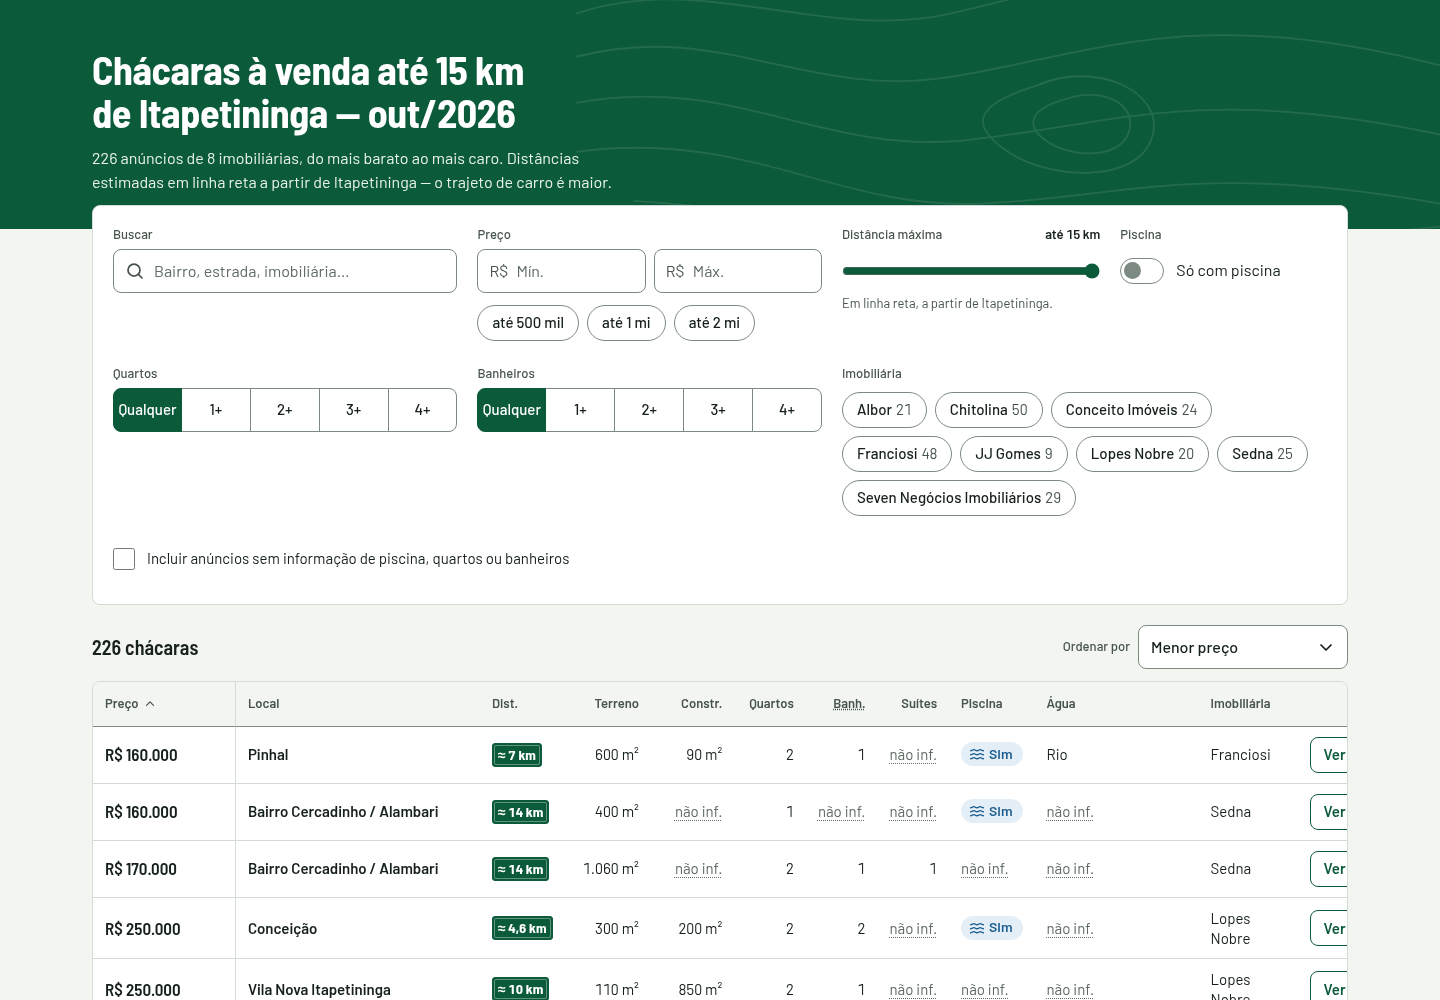
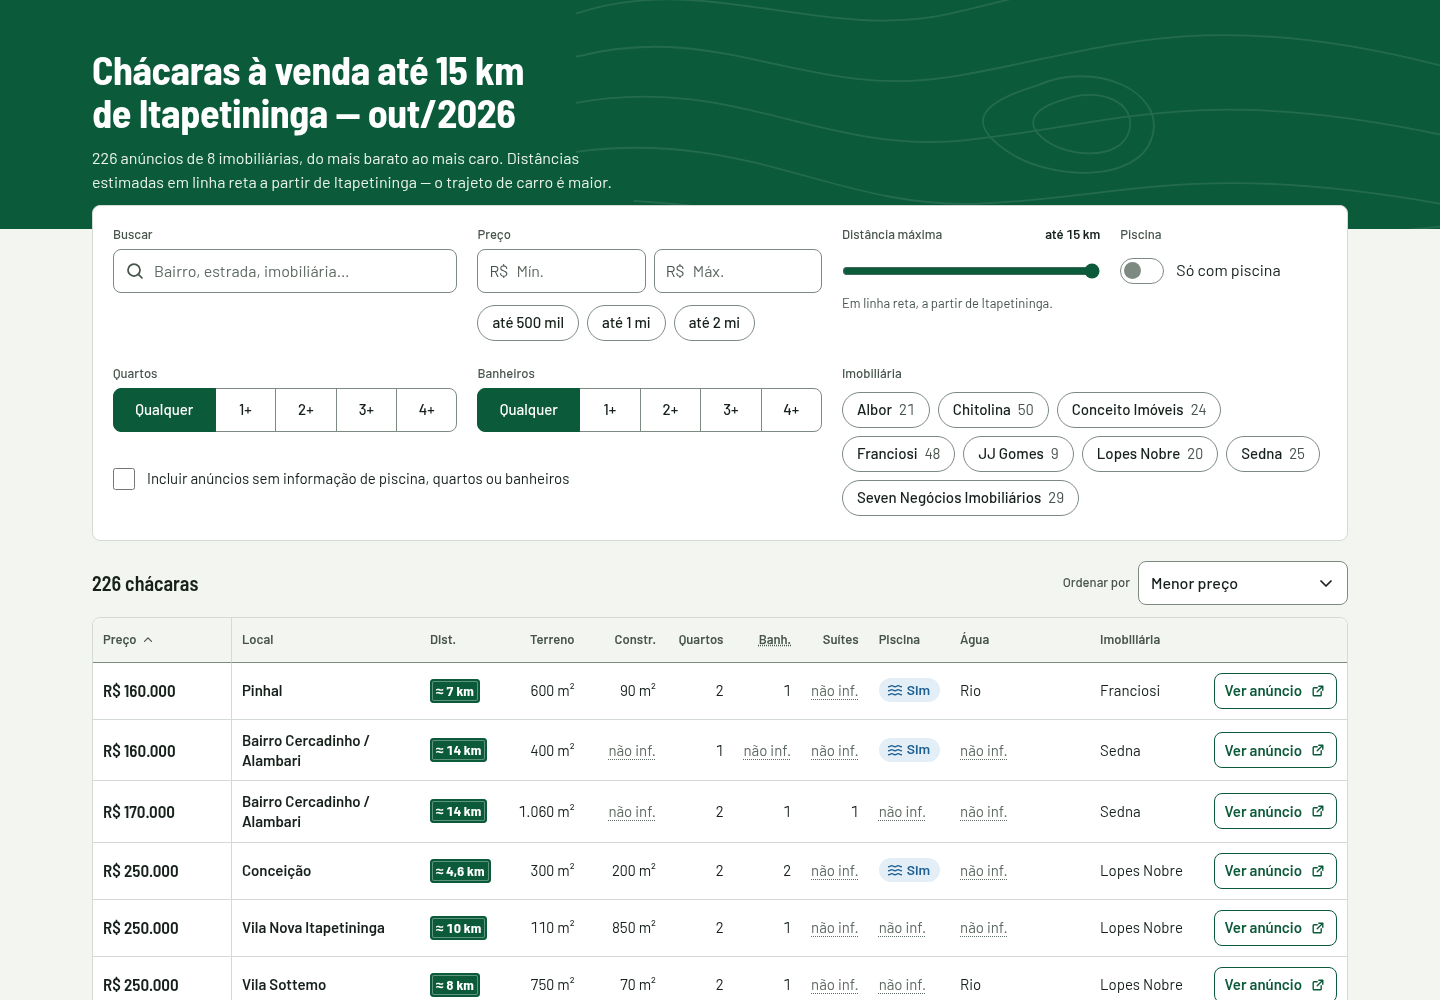
QA: post-deploy screenshots and report note

diff --git a/QA_REPORT.md b/QA_REPORT.md
@@ -38,3 +38,11 @@ Final review of `index.html`, `styles.css`, `app.js` and `data.json`, checked ag
   - 7 terreno values under 20 m² (sedna-10423 = 3 m², franciosi-66104 = 2 m², …).
 - On a 390 px phone the search placeholder is truncated ("Bairro, estrada, imobiliária…" does not fit next to Filtros). The label is still exposed to assistive tech, so this was accepted.
 - The live count also updates while the distance slider is dragged (only text input is debounced). This is minor and was left as is.
+
+## Post-deploy check
+
+After the push (commit 17382e2), Pages redeployed and `desktop.png` / `mobile.png` were retaken against the live URL:
+
+- At 1440 px the whole table, including the "Ver anúncio" column, fits without scrolling.
+- The include-missing checkbox now sits under Quartos and Banheiros.
+- The mobile cards are unchanged and correct.
